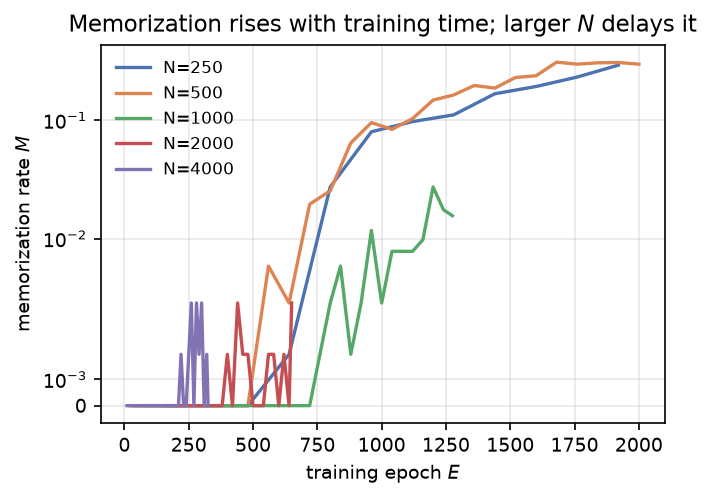
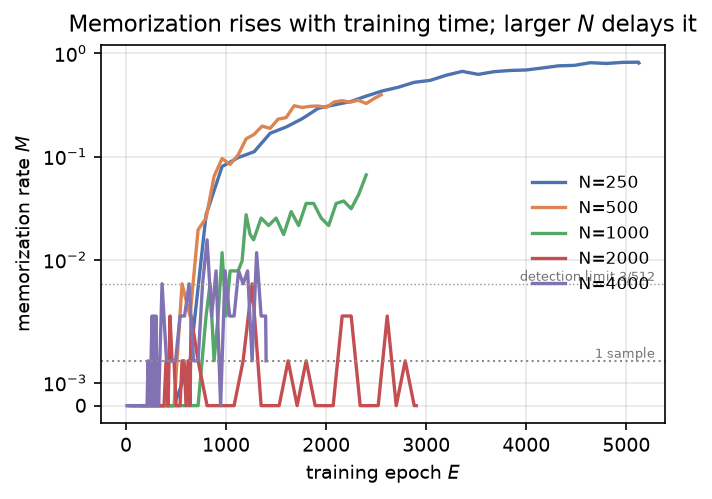
fix: --only all 漏掉主图（静默 bug）; report §1 按数据集分组 + 用 runs/*.json 的真实预算

diff --git a/tools/report.py b/tools/report.py
@@ -58,21 +58,37 @@ def _fmt(x, nd=3):
         return str(x)
 
 
+def _run_json(dataset, n, seed):
+    """读 runs/*.json，拿真实预算 —— 不能再用 C.epochs_for 猜：
+    deep 档（R1）把大 N 的预算改大过，猜出来的"预算"会让完成度表全错。"""
+    import json
+    p = C.RESULTS / "runs" / f"{C.run_tag(dataset, int(n), int(seed))}.json"
+    if not p.exists():
+        return {}
+    try:
+        return json.loads(p.read_text(encoding="utf-8"))
+    except Exception:
+        return {}
+
+
 def section_status(df):
     lines = ["## 1. 主网格完成度", ""]
     if df is None:
         lines += ["`results/metrics_long.csv` 还不存在 —— 先跑 `python -m tools.night_queue --plan main`。", ""]
         return lines
-    lines.append("| N | seed | 测量点 | 最后 epoch / 预算 | τ | M_max | FID_min | 状态 |")
-    lines.append("|---|---|---|---|---|---|---|---|")
-    for (n, s), g in df.groupby(["n", "seed"], sort=True):
+    lines.append("| 数据集 | N | seed | 测量点 | 最后 epoch / 预算 | τ | M_max | FID_min | 状态 |")
+    lines.append("|---|---|---|---|---|---|---|---|---|")
+    # 必须按 (dataset, n, seed) 分组：三个数据集共用同一张 CSV，
+    # 只按 (n, seed) 分组会把 bloodmnist 的 M_max 混进 pathmnist 的行里。
+    for (ds, n, s), g in df.groupby(["dataset", "n", "seed"], sort=True):
         eps = sorted(g["epoch"].unique())
-        want = C.epochs_for(int(n))
+        meta = _run_json(ds, n, s)
+        want = int(meta.get("epochs_target") or C.epochs_for(int(n)))
         done = int(eps[-1]) if eps else 0
         ok = "✅ 完成" if done >= want * 0.99 else f"⏳ {done}/{want}"
         fmin = g["fid"].min() if g["fid"].notna().any() else None
         lines.append(
-            f"| {int(n)} | {int(s)} | {len(eps)} | {done} / {want} | "
+            f"| {ds} | {int(n)} | {int(s)} | {len(eps)} | {done} / {want} | "
             f"{_fmt(g['tau'].iloc[-1], 4)} | {_fmt(g['M'].max())} | {_fmt(fmin, 1)} | {ok} |"
         )
     lines.append("")

diff --git a/tools/plot.py b/tools/plot.py
@@ -80,6 +80,9 @@ def fig_m_vs_e(df: pd.DataFrame):
     ax.set_ylabel("memorization rate $M$")
     ax.set_yscale("symlog", linthresh=0.005)
     ax.axhline(3.0 / C.N_SAMPLE, color="0.6", lw=0.7, ls=":")
+    ax.text(0.99, 3.0 / C.N_SAMPLE, "detection limit 3/512 ",
+            transform=ax.get_yaxis_transform(), va="bottom", ha="right",
+            fontsize=6, color="0.45")
     # 参考线：单张样本即 1/N_SAMPLE，是这条曲线能取到的最小非零值（离散噪声地板）
     ax.axhline(1.0 / C.N_SAMPLE, ls=":", lw=1.0, color="0.55")
     ax.text(0.99, 1.0 / C.N_SAMPLE, " 1 sample ", transform=ax.get_yaxis_transform(),
@@ -356,22 +359,28 @@ def main():
             fig_e_star(lawjson)
         return
 
-    if not only or only in "m,me":
+    def want(keys: str) -> bool:
+        # 注意：`only in keys` 是子串匹配，所以 "all" 必须在每个 keys 里出现，
+        # 否则 `--only all` 会静默漏掉那张图（fig_M_vs_E 就漏过一次，
+        # 导致主图一直停在 22:05 的旧版本，而其他图都更新了）。
+        return (not only) or only == "all" or only in keys
+
+    if want("all,m,me"):
         fig_m_vs_e(df)
     if lawjson:
-        if not only or only in "all,collapse,c":
+        if want("all,collapse,c"):
             fig_collapse(df, lawjson)
-        if not only or only in "all,amp,a":
+        if want("all,amp,a"):
             fig_amplitude(df, lawjson)
-        if not only or only in "all,parity,p":
+        if want("all,parity,p"):
             fig_parity(df, lawjson)
-        if not only or only in "all,estar,e":
+        if want("all,estar,e"):
             fig_e_star(lawjson)
-    if not only or only in "all,quality,q":
+    if want("all,quality,q"):
         fig_quality(df)
-    if not only or only in "all,stop,s":
+    if want("all,stop,s"):
         fig_stop_policy()
-    if not only or only in "all,cross,x":
+    if want("all,cross,x"):
         fig_cross_dataset()
 
 

diff --git a/RESULTS.md b/RESULTS.md
@@ -1,17 +1,19 @@
 # 实验结果总览（自动生成）
 
-> 生成时间 2026-10-31 04:06:51 · 由 `python -m tools.report` 从 `results/` 汇总。
+> 生成时间 2026-10-31 04:10:25 · 由 `python -m tools.report` 从 `results/` 汇总。
 > 数字的出处见每节标注；协议与判据见 `docs/PROTOCOL.md`，踩坑记录见 `docs/NOTES.md`。
 
 ## 1. 主网格完成度
 
-| N | seed | 测量点 | 最后 epoch / 预算 | τ | M_max | FID_min | 状态 |
-|---|---|---|---|---|---|---|---|
-| 250 | 1 | 33 | 5125 / 5125 | 0.7350 | 0.973 | 71.3 | ✅ 完成 |
-| 500 | 1 | 32 | 2550 / 2550 | 0.5287 | 0.396 | 163.2 | ✅ 完成 |
-| 1000 | 1 | 61 | 2400 / 1275 | 0.4893 | 0.363 | 64.3 | ✅ 完成 |
-| 2000 | 1 | 59 | 2900 / 650 | 0.5588 | 0.006 | 168.1 | ✅ 完成 |
-| 4000 | 1 | 58 | 1400 / 325 | 0.6028 | 0.016 | 125.1 | ✅ 完成 |
+| 数据集 | N | seed | 测量点 | 最后 epoch / 预算 | τ | M_max | FID_min | 状态 |
+|---|---|---|---|---|---|---|---|---|
+| bloodmnist | 250 | 1 | 33 | 5125 / 5125 | 0.4848 | 0.973 | 71.3 | ✅ 完成 |
+| bloodmnist | 1000 | 1 | 32 | 2400 / 2400 | 0.3374 | 0.363 | 64.3 | ✅ 完成 |
+| pathmnist | 250 | 1 | 33 | 5125 / 5125 | 0.7350 | 0.820 | 123.2 | ✅ 完成 |
+| pathmnist | 500 | 1 | 32 | 2550 / 2550 | 0.5287 | 0.396 | 163.2 | ✅ 完成 |
+| pathmnist | 1000 | 1 | 47 | 2400 / 2400 | 0.4893 | 0.066 | 210.6 | ✅ 完成 |
+| pathmnist | 2000 | 1 | 59 | 2900 / 2900 | 0.5588 | 0.006 | 168.1 | ✅ 完成 |
+| pathmnist | 4000 | 1 | 58 | 1400 / 1400 | 0.6028 | 0.016 | 125.1 | ✅ 完成 |
 
 - 总测量点 **294**，覆盖 **7** 个 run，数据集：bloodmnist, pathmnist。
 - 编码器：dinov2_s:384。
@@ -141,6 +143,7 @@
 
 - `figs/fig_amplitude.png`
 - `figs/fig_collapse.png`
+- `figs/fig_cross_dataset.png`
 - `figs/fig_E_star.png`
 - `figs/fig_M_vs_E.png`
 - `figs/fig_parity.png`
